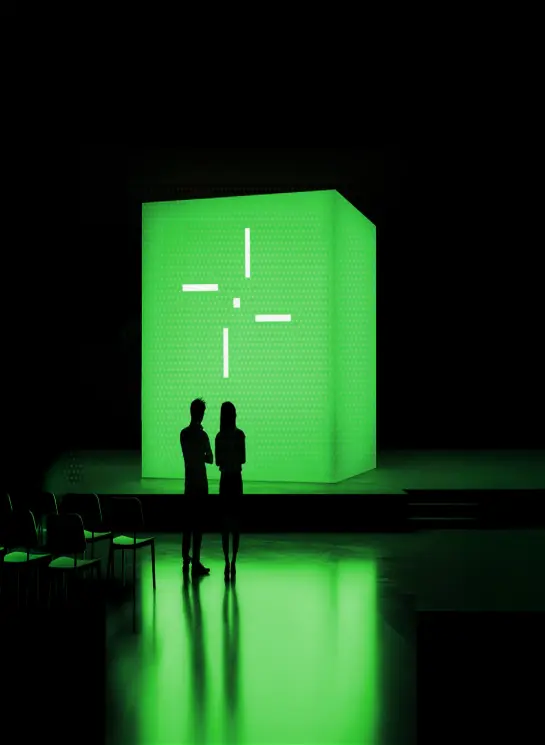
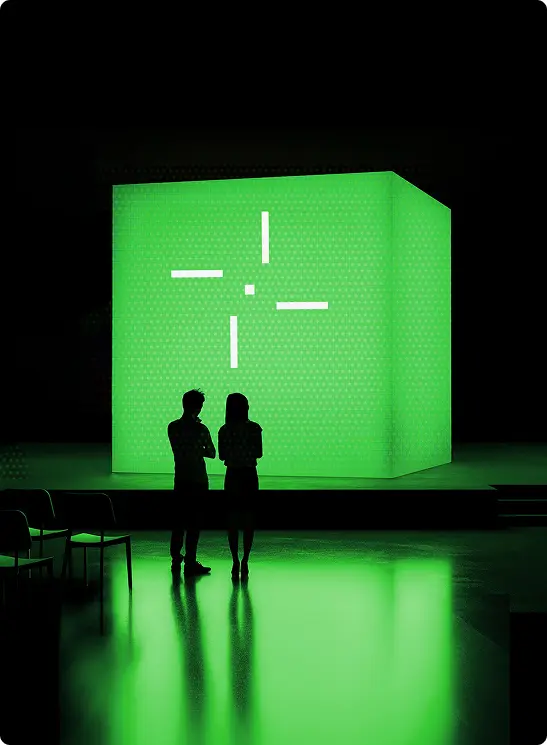
misc changes

diff --git a/index.html b/index.html
@@ -24,11 +24,11 @@
     </script>
     <style>
       :root {
-      --size: clamp(10rem, 1rem + 40vmin, 30rem);
-  --gap: calc(var(--size) / 14);
-  --duration: 60s;
-  --scroll-start: 0;
-  --scroll-end: calc(-100% - var(--gap));
+        --size: clamp(10rem, 1rem + 40vmin, 30rem);
+        --gap: calc(var(--size) / 14);
+        --duration: 60s;
+        --scroll-start: 0;
+        --scroll-end: calc(-100% - var(--gap));
       }
       .mySwiper {
         width: 100%;
@@ -67,32 +67,32 @@
         border-radius: 2px;
         transition: width 0.3s ease;
       }
-@keyframes scroll-x {
-  from {
-    transform: translateX(var(--scroll-start));
-  }
-  to {
-    transform: translateX(var(--scroll-end));
-  }
-}
-      
-.marquee {
-  display: flex;
-  overflow: hidden;
-  user-select: none;
-  gap: var(--gap);
-}
+      @keyframes scroll-x {
+        from {
+          transform: translateX(var(--scroll-start));
+        }
+        to {
+          transform: translateX(var(--scroll-end));
+        }
+      }
+            
+      .marquee {
+        display: flex;
+        overflow: hidden;
+        user-select: none;
+        gap: var(--gap);
+      }
 
-.marquee__group {
-  flex-shrink: 0;
-  display: flex;
-  align-items: center;
-  justify-content: space-around;
-  gap: var(--gap);
-  min-width: 100%;
-  padding-right: 2.5rem;
-  animation: scroll-x var(--duration) linear infinite;
-}
+      .marquee__group {
+        flex-shrink: 0;
+        display: flex;
+        align-items: center;
+        justify-content: space-around;
+        gap: var(--gap);
+        min-width: 100%;
+        padding-right: 2.5rem;
+        animation: scroll-x var(--duration) linear infinite;
+      }
 
       .marquee__group img {
         height: 32px;
@@ -103,6 +103,47 @@
       }
       .marquee__group img.small {
         max-width: 100px;
+      }
+      
+      .mag-zone {
+        width: 300px;
+        height: 110px;
+        display: flex;
+        align-items: center;
+        justify-content: center;
+        border-radius: 50%;
+        /* border: 1px dashed var(--s25); */
+        position: fixed;
+        top: 0;
+        right: 50px;
+        cursor: pointer;
+      }
+      .mag-btn {
+        position: relative;
+        display: flex;
+        align-items: center;
+        justify-content: center;
+        padding: 16px 32px;
+        border-radius: 99px;
+        border: none;
+        cursor: pointer;
+        text-transform: uppercase;
+        overflow: hidden;
+        will-change: transform;
+      }
+      .mag-btn .bg {
+        position: absolute;
+        inset: 0;
+        border-radius: 99px;
+        z-index: 0;
+        background: var(--button-bg);
+      }
+      .mag-btn .label {
+        position: relative;
+        z-index: 1;
+        pointer-events: none;
+        font-size: 16px;
+        color: var(--footer-text);
       }
     </style>
   </head>
@@ -295,7 +336,16 @@
           </div>
         </nav>
         
-  <div class="book-appointment-btn"><a href="contact" class="btn pill">Book an Appointment <img src="images/arrow-right-white.svg" data-theme="images/arrow-right-black.svg" height="14" alt="arrow"></a></div>
+      <!-- <div class="book-appointment-btn"><a href="contact" class="btn pill">Book an Appointment <img src="images/arrow-right-white.svg" data-theme="images/arrow-right-black.svg" height="14" alt="arrow"></a></div> -->
+
+      <div class="mag-zone" data-mode="true" data-wiggle="false">
+          <a href="contact" class="mag-btn btn" >
+            <div class="bg"></div>
+            <span class="label">Book an Appointment
+              <img src="images/arrow-right-white.svg" data-theme="images/arrow-right-black.svg" height="14" style="vertical-align: top; margin-left: 0.5rem;" alt="arrow">
+            </span>
+          </a>
+        </div>
 
         <!-- Main Sections -->
         <main>
@@ -543,6 +593,8 @@
     <script src="https://cdn.jsdelivr.net/npm/gsap@3.14.1/dist/ScrollTrigger.min.js"></script>
     <!-- <script src="https://cdn.jsdelivr.net/npm/gsap@3.14.1/dist/ScrollSmoother.min.js"></script> -->
     <script src="https://cdn.jsdelivr.net/npm/gsap@3.14.1/dist/TextPlugin.min.js"></script>
+    <script src="https://cdn.jsdelivr.net/npm/gsap@3.14.1/dist/CustomEase.min.js"></script>
+    <script src="https://cdn.jsdelivr.net/npm/gsap@3.14.1/dist/CustomWiggle.min.js"></script>
 
     <script src="https://cdn.jsdelivr.net/npm/swiper@12/swiper-bundle.min.js"></script>
     <!-- <script src="js/marquee6k.js"></script> -->
@@ -550,21 +602,89 @@
     <script src="js/main.js"></script>
     <script>
       // marquee6k.init();
+      gsap.registerPlugin(CustomEase, CustomWiggle);
 
       gsap.from("section", {
         y: -40,
         opacity: 0,
         duration: 1,
+        delay: 6,
         ease: "power2.out",
         stagger: 0.2,
       });
-      // logo marquee
-      /* gsap.to(".marquee-track", {
-        xPercent: -60,
-        ease: "linear",
-        duration: 10,
-        repeat: -1,
-      }); */
+
+      
+      /* ── magnetic buttons ── */
+      var zones = document.querySelectorAll(".mag-zone");
+      var strength = 0.4;
+      var labelStrength = 0.24;
+      
+      zones.forEach(function(zone) {
+        var btn = zone.querySelector(".mag-btn");
+        var label = btn.querySelector(".label");
+        var mode = zone.getAttribute("data-mode");
+        var overwrite = mode === "true" ? true : mode === "false" ? false : "auto";
+        var isFalse = mode === "false";
+        var hasWiggle = zone.getAttribute("data-wiggle") === "true";
+      
+        // attention-seeking wiggle (if enabled)
+        if (hasWiggle) {
+          gsap.to(btn, {
+            rotation: 12,
+            duration: 1.5,
+            repeat: -1,
+            ease: "wiggle({wiggles:8,type:easeOut})"
+          });
+        }
+        console.log(zone)
+        zone.addEventListener("mousemove", function(e) {
+          var rect = zone.getBoundingClientRect();
+          var mapX = gsap.utils.mapRange(rect.left, rect.right, -rect.width / 2, rect.width / 2, e.clientX);
+          var mapY = gsap.utils.mapRange(rect.top, rect.bottom, -rect.height / 2, rect.height / 2, e.clientY);
+      
+          gsap.to(btn, {
+            x: mapX * strength,
+            y: mapY * strength,
+            duration: isFalse ? 1.5 : 0.4,
+            ease: "power2.out",
+            overwrite: overwrite
+          });
+      
+          gsap.to(label, {
+            x: mapX * labelStrength,
+            y: mapY * labelStrength,
+            duration: isFalse ? 1.5 : 0.4,
+            ease: "power2.out",
+            overwrite: true
+          });
+        });
+      
+        zone.addEventListener("mouseleave", function() {
+          gsap.to(btn, {
+            x: 0, y: 0,
+            duration: isFalse ? 0.5 : 0.7,
+            ease: isFalse ? "power2.out" : "elastic.out(1,0.4)",
+            overwrite: overwrite
+          });
+      
+          gsap.to(label, {
+            x: 0, y: 0,
+            duration: isFalse ? 0.5 : 0.7,
+            ease: isFalse ? "power2.out" : "elastic.out(1,0.4)",
+            overwrite: true
+          });
+        });
+      });
+
+      zone.addEventListener("mouseleave", () => {
+        gsap.to(btn, { 
+          x: 0, 
+          y: 0,
+          duration: 0.7,
+          ease: "elastic.out(1, 0.4)",
+          overwrite: true
+        });
+      });
     </script>
     <script>
       const swiper = new Swiper(".mySwiper", {

diff --git a/projects/gulfpack.html b/projects/gulfpack.html
@@ -224,15 +224,15 @@
             </p>
           </div>
           <div class="product-image cursor-hover" data-cursor-text="View Reel" >
-            <img src="../images/gulfpack/GP_1.webp" data-parallax-speed="0.1" alt="gulf pack" />
-            <button type="button" class=" video-trigger" data-video-type="mp4" data-video-src="images/gulfpackvideofullscreen.mp4">&nbsp;</button>
-             <!-- <video class="desktop-only" autoplay muted loop playsinline>
+            <!-- <img src="../images/gulfpack/GP_1.webp" data-parallax-speed="0.1" alt="gulf pack" /> -->
+            <video class="desktop-only" autoplay muted loop playsinline>
               <source src="../images/gulfpack/Gulfpack-Teaser.mp4" type="video/mp4">
               Your browser does not support the video tag.
-            </video> -->
-            <!-- <video class="mobile-only" autoplay muted loop playsinline>
+            </video>
+            <video class="mobile-only" autoplay muted loop playsinline>
               <source src="../images/gulfpack/Gulfpack-Teaser-Mobile.mp4" type="video/mp4">
-            </video> -->
+            </video>
+            <button type="button" class=" video-trigger" data-video-type="mp4" data-video-src="images/gulfpackvideofullscreen.mp4">&nbsp;</button>
           </div>
           <div class="product-details ">
             <div class="desktop-only">
@@ -316,7 +316,7 @@
             <div class="desktop-only"></div>
             <div class="product-image cursor-hover" >
               <a href="ashbee.html">
-                <img src="../images/gulfpack/GP_3.webp" alt="gulf pack" />
+                <img src="../images/gulfpack/11.webp" alt="gulf pack" />
               </a>
 
               <!-- <figure class="hover">Discover</figure> -->

diff --git a/styles/common.css b/styles/common.css
@@ -12,9 +12,10 @@
   --mobile-menu-bg: linear-gradient(
     90deg,
     rgba(240, 240, 240, 0.9) 0%,
-    rgba(228, 228, 228, 0.9) 57.21%,
+    rgba(228, 228, 228, 0.9) 57%,
     rgba(244, 244, 244, 0.9) 100%
   );
+  --button-bg: linear-gradient(0deg, var(--primary-color), var(--secondary-color));
 }
 
 .dark-theme {
@@ -28,7 +29,8 @@
   --footer-text: #000;
   --footer-text-secondary: #a2a2a2;
   --footer-border: #292929;
-  --mobile-menu-bg: rgba(14, 14, 14, 0.93);
+  --mobile-menu-bg: linear-gradient(90deg, rgba(14, 15, 18, 0.9), rgba(18, 20, 19, 0.8) 57%, rgba(25,26,27,0.9));
+  --button-bg: linear-gradient(180deg, var(--primary-color), var(--btn-text));
 }
 * {
   box-sizing: border-box;
@@ -345,7 +347,8 @@ footer {
 
 /* media queries  */
 @media screen and (max-width: 1200px) {
-  .book-appointment-btn {
+  .book-appointment-btn,
+  .mag-zone {
     right: 1rem;
     display: none;
   }

diff --git a/projects/ashbee.html b/projects/ashbee.html
@@ -222,9 +222,9 @@
               Ashbee Energy marks Ashbee Systems' expansion into the future of energy storage. Built on decades of industrial expertise, the new brand establishes a clear identity for its next chapter in the BESS and lithium-ion battery space.
             </p>
             </div>
-          <div class="product-image cursor-hover" data-cursor-text="View Reel">
+          <div class="product-image " >
             <img src="../images/ashbee/1.webp" alt="ashbee energy" />
-            <button type="button" class=" video-trigger" data-video-type="mp4" data-video-src="images/Ashbee.mp4">&nbsp;</button>
+            <!-- <button type="button" class=" video-trigger" data-video-type="mp4" data-video-src="images/Ashbee.mp4">&nbsp;</button> -->
           </div>
           <div class="product-details">
             <div class="desktop-only">

diff --git a/projects/oryggi.html b/projects/oryggi.html
@@ -329,7 +329,7 @@ Website<br />
             <div class="desktop-only"></div>
             <div class="product-image cursor-hover">
               <a href="gulfpack.html">
-                <img src="../images/oryggi/11.webp" alt="Oryggi Technologies" />
+                <img src="../images/oryggi/12.webp" alt="gulfpack" />
               </a>
 
               <!-- <figure class="hover">Discover</figure> -->

diff --git a/projects/soyi.html b/projects/soyi.html
@@ -336,7 +336,7 @@
             <div></div>
             <div class="product-image cursor-hover">
               <a href="oryggi.html">
-                <img src="../images/soyi/Soyi_12.webp" alt="soyi restaurant" />
+                <img src="../images/soyi/soyi_12.webp" alt="soyi restaurant" />
               </a>
 
               <!-- <figure class="hover cursor-figure">Discover</figure> -->
